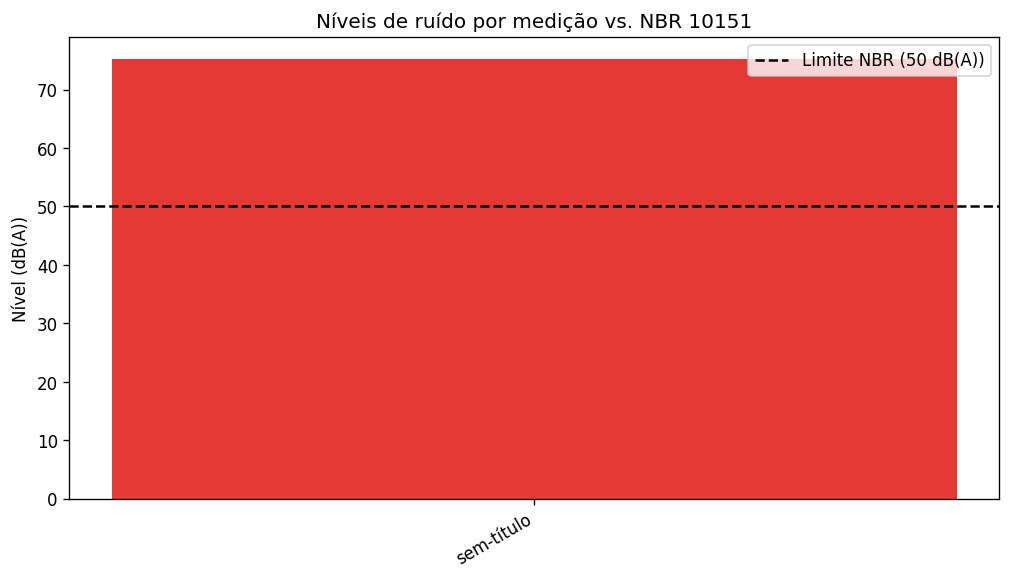
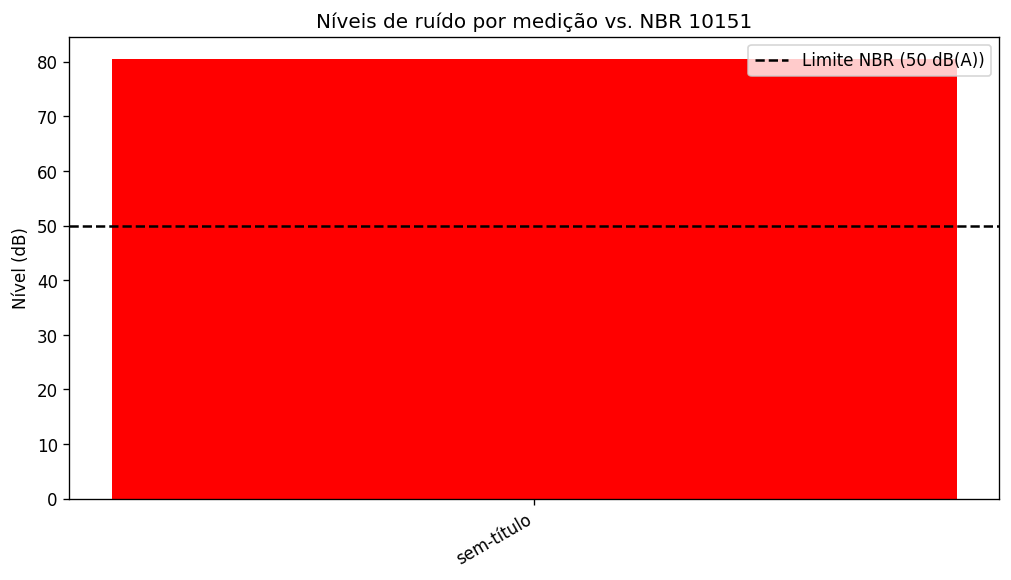
coletado audios

diff --git a/codigo/processamento.py b/codigo/processamento.py
@@ -1,155 +1,117 @@
-"""Funções de processamento do monitoramento acústico.
-
-Reúne, em um só lugar, todas as etapas usadas pelo main.py:
-carregamento do WAV, análise no tempo e na frequência (FFT), filtros
-FIR/IIR, nível em dB(A) comparado à NBR 10151 e os gráficos.
-"""
+# Funções de processamento do monitoramento acústico.
 
 from pathlib import Path
 
 import matplotlib
-matplotlib.use("Agg")  # backend sem janela: só salva os PNGs
+matplotlib.use("Agg")  # só salva os PNGs, não abre janela
 import matplotlib.pyplot as plt
 import numpy as np
 from scipy.io import wavfile
-from scipy.signal import (bilinear, butter, filtfilt, find_peaks, firwin,
-                          freqz, lfilter, spectrogram)
+from scipy.signal import butter, filtfilt, find_peaks, firwin, freqz, spectrogram
 
-# --- Pastas ---
+# Pastas
 PASTA_RAIZ = Path(__file__).resolve().parent.parent
 PASTA_AUDIOS = PASTA_RAIZ / "audios"
 PASTA_RESULTADOS = PASTA_RAIZ / "resultados"
 
-# --- Análise espectral ---
-FS_ESPERADA = 44100      # só para gerar o áudio de teste
-N_PICOS = 5              # quantos picos destacar no espectro
+# Análise espectral
+N_PICOS = 5                # quantos picos destacar no espectro
 ALTURA_MINIMA_PICO = 0.05  # fração do maior pico para considerar um pico
-TAMANHO_JANELA = 4096    # janela do espectrograma (amostras)
+TAMANHO_JANELA = 4096      # janela do espectrograma (amostras)
 
-# --- Filtros ---
-FREQ_CORTE = 2000        # corte do passa-baixas (Hz)
-ORDEM_IIR = 4            # ordem do Butterworth
-NUM_TAPS_FIR = 201       # nº de coeficientes do FIR
+# Filtros
+FREQ_CORTE = 2000          # corte do passa-baixas (Hz)
+ORDEM_IIR = 4              # ordem do Butterworth
+NUM_TAPS_FIR = 201         # nº de coeficientes do FIR
 
-# --- Nível de ruído (NBR 10151, entorno universitário) ---
-LIMITE_DIURNO = 50       # dB(A)
-LIMITE_NOTURNO = 45      # dB(A)
+# Nível de ruído (NBR 10151, entorno universitário)
+LIMITE_DIURNO = 50         # dB(A)
+LIMITE_NOTURNO = 45        # dB(A)
 # Sem microfone calibrado o WAV dá só nível relativo (dBFS). Esta constante
-# converte dBFS -> dB(A) SPL; medir uma vez contra um decibelímetro.
+# converte dBFS -> dB SPL; medir uma vez contra um decibelímetro.
 CALIBRACAO_DB = 100.0
 
 
-# ======================= CARREGAMENTO =======================
-
+# Lista os caminhos dos .wav da pasta audios/.
 def listar_audios():
-    """Devolve, em ordem, os caminhos dos .wav da pasta audios/."""
     return sorted(PASTA_AUDIOS.glob("*.wav"))
 
 
+# Lê um WAV e devolve (sinal mono, fs) normalizado em [-1, 1].
 def carregar(caminho):
-    """Lê um WAV e devolve (sinal_mono, fs), normalizado em [-1, 1]."""
     fs, dados = wavfile.read(caminho)
     sinal = dados.astype(np.float32)
-    # WAV inteiro: traz para [-1, 1] dividindo pelo maior valor do tipo.
     if np.issubdtype(dados.dtype, np.integer):
         sinal = sinal / np.iinfo(dados.dtype).max
-    # Estéreo vira mono pela média dos canais.
     if sinal.ndim > 1:
-        sinal = sinal.mean(axis=1)
+        sinal = sinal.mean(axis=1)  # estéreo -> mono
     return sinal, fs
 
 
-# ======================= ANÁLISE (TEMPO E FREQUÊNCIA) =======================
-
+# Espectro de amplitude (FFT): devolve (frequencias, amplitudes).
 def espectro(sinal, fs):
-    """Calcula o espectro de amplitude (FFT) e devolve (frequencias, amplitudes)."""
     n = len(sinal)
     amplitudes = np.abs(np.fft.rfft(sinal)) / n
     frequencias = np.fft.rfftfreq(n, d=1 / fs)
     return frequencias, amplitudes
 
 
+# Devolve os N_PICOS picos de maior amplitude como lista de (freq, amp).
 def picos_predominantes(frequencias, amplitudes):
-    """Devolve os N_PICOS picos de maior amplitude como lista de (freq, amp)."""
     altura = ALTURA_MINIMA_PICO * np.max(amplitudes)
     indices, _ = find_peaks(amplitudes, height=altura)
-    # Ordena por amplitude (maior primeiro) e fica com os N_PICOS maiores.
     indices = sorted(indices, key=lambda i: amplitudes[i], reverse=True)
     indices = indices[:N_PICOS]
     return [(frequencias[i], amplitudes[i]) for i in indices]
 
 
+# Espectrograma (energia por tempo e frequência).
 def espectrograma(sinal, fs):
-    """Calcula o espectrograma (energia por tempo e frequência)."""
     return spectrogram(sinal, fs=fs, nperseg=TAMANHO_JANELA)
 
 
-# ======================= FILTROS FIR / IIR =======================
-
+# Projeta um IIR passa-baixas (Butterworth). Devolve (b, a).
 def projetar_iir(fs):
-    """Projeta um IIR passa-baixas (Butterworth). Devolve (b, a)."""
     nyquist = fs / 2
     return butter(ORDEM_IIR, FREQ_CORTE / nyquist, btype="low")
 
 
+# Projeta um FIR passa-baixas (janela). Devolve (b, a) com a = 1.
 def projetar_fir(fs):
-    """Projeta um FIR passa-baixas (janela). Devolve (b, a) com a = 1."""
     nyquist = fs / 2
     b = firwin(NUM_TAPS_FIR, FREQ_CORTE / nyquist)
     return b, 1.0
 
 
+# Aplica o filtro ao sinal com fase zero.
 def aplicar_filtro(sinal, b, a):
-    """Aplica o filtro ao sinal com fase zero (filtfilt)."""
     return filtfilt(b, a, sinal)
 
 
+# Resposta em frequência do filtro: devolve (frequencias, ganho_db).
 def resposta_frequencia(b, a, fs):
-    """Devolve (frequencias, ganho_db) da resposta em frequência do filtro."""
-    epsilon = 1e-12
     w, h = freqz(b, a)
     frequencias = w * fs / (2 * np.pi)
-    ganho_db = 20 * np.log10(np.abs(h) + epsilon)
+    ganho_db = 20 * np.log10(np.abs(h) + 1e-12)
     return frequencias, ganho_db
 
 
-# ======================= NÍVEL EM dB(A) E NORMA =======================
-
-def ponderacao_a(sinal, fs):
-    """Aplica a ponderação A (curva da IEC 61672) ao sinal."""
-    # Frequências que definem a curva A (Hz) e correção para 0 dB em 1 kHz.
-    f1, f2, f3, f4 = 20.598997, 107.65265, 737.86223, 12194.217
-    ganho_1khz = 1.9997
-    num = [(2 * np.pi * f4) ** 2 * (10 ** (ganho_1khz / 20)), 0, 0, 0, 0]
-    den = np.polymul(
-        np.polymul([1, 4 * np.pi * f4, (2 * np.pi * f4) ** 2],
-                   [1, 4 * np.pi * f1, (2 * np.pi * f1) ** 2]),
-        np.polymul([1, 2 * np.pi * f3], [1, 2 * np.pi * f2]),
-    )
-    b, a = bilinear(num, den, fs)  # filtro analógico -> digital
-    return lfilter(b, a, sinal)
-
-
-def nivel_dba(sinal, fs):
-    """Nível em dB(A) SPL aproximado: pondera A -> RMS -> dBFS + calibração."""
-    epsilon = 1e-12
-    ponderado = ponderacao_a(sinal, fs)
-    rms = np.sqrt(np.mean(ponderado ** 2))
-    dbfs = 20 * np.log10(rms + epsilon)
+# Nível aproximado em dB: RMS -> dBFS + calibração (sem ponderação A).
+def nivel_db(sinal):
+    rms = np.sqrt(np.mean(sinal ** 2))
+    dbfs = 20 * np.log10(rms + 1e-12)
     return dbfs + CALIBRACAO_DB
 
 
+# Compara o nível com o limite da NBR 10151. Devolve (limite, situacao).
 def comparar_norma(nivel, periodo="diurno"):
-    """Compara o nível com o limite da NBR 10151. Devolve (limite, situacao)."""
     limite = LIMITE_DIURNO if periodo == "diurno" else LIMITE_NOTURNO
     situacao = "acima" if nivel > limite else "dentro"
     return limite, situacao
 
 
-# ======================= GRÁFICOS (salvam PNG em resultados/) =======================
-
+# Plota o sinal no domínio do tempo.
 def plot_forma_onda(sinal, fs, titulo, nome_arquivo):
-    """Plota o sinal no domínio do tempo."""
     tempo = np.arange(len(sinal)) / fs
     figura, eixo = plt.subplots(figsize=(10, 3))
     eixo.plot(tempo, sinal, linewidth=0.5)
@@ -157,11 +119,11 @@ def plot_forma_onda(sinal, fs, titulo, nome_arquivo):
     eixo.set_xlabel("Tempo (s)")
     eixo.set_ylabel("Amplitude")
     eixo.grid(True, alpha=0.3)
-    return _salvar(figura, nome_arquivo)
+    salvar(figura, nome_arquivo)
 
 
+# Plota o espectro de amplitude e marca os picos predominantes.
 def plot_espectro(frequencias, amplitudes, picos, titulo, nome_arquivo):
-    """Plota o espectro de amplitude e marca os picos predominantes."""
     figura, eixo = plt.subplots(figsize=(10, 4))
     eixo.plot(frequencias, amplitudes, linewidth=0.7)
     for frequencia, amplitude in picos:
@@ -172,27 +134,24 @@ def plot_espectro(frequencias, amplitudes, picos, titulo, nome_arquivo):
     eixo.set_xlabel("Frequência (Hz)")
     eixo.set_ylabel("Amplitude")
     eixo.grid(True, alpha=0.3)
-    return _salvar(figura, nome_arquivo)
+    salvar(figura, nome_arquivo)
 
 
+# Plota o espectrograma em escala de dB.
 def plot_espectrograma(frequencias, tempos, energia, titulo, nome_arquivo):
-    """Plota o espectrograma em escala de dB."""
-    epsilon = 1e-12
     figura, eixo = plt.subplots(figsize=(10, 4))
-    energia_db = 10 * np.log10(energia + epsilon)
+    energia_db = 10 * np.log10(energia + 1e-12)
     malha = eixo.pcolormesh(tempos, frequencias, energia_db, shading="gouraud")
     eixo.set_title(titulo)
     eixo.set_xlabel("Tempo (s)")
     eixo.set_ylabel("Frequência (Hz)")
     figura.colorbar(malha, ax=eixo, label="Energia (dB)")
-    return _salvar(figura, nome_arquivo)
+    salvar(figura, nome_arquivo)
 
 
+# Plota a resposta em frequência de um ou mais filtros.
+# curvas: lista de (rotulo, frequencias, ganho_db).
 def plot_resposta_filtros(curvas, titulo, nome_arquivo):
-    """Plota a resposta em frequência de um ou mais filtros.
-
-    curvas: lista de (rotulo, frequencias, ganho_db).
-    """
     figura, eixo = plt.subplots(figsize=(10, 4))
     for rotulo, frequencias, ganho_db in curvas:
         eixo.plot(frequencias, ganho_db, label=rotulo)
@@ -201,27 +160,25 @@ def plot_resposta_filtros(curvas, titulo, nome_arquivo):
     eixo.set_ylabel("Ganho (dB)")
     eixo.grid(True, alpha=0.3)
     eixo.legend()
-    return _salvar(figura, nome_arquivo)
+    salvar(figura, nome_arquivo)
 
 
+# Barras com o nível de cada medição vs. limite diurno da NBR 10151.
 def plot_comparacao_niveis(nomes, niveis, nome_arquivo):
-    """Barras com o nível de cada medição vs. limite diurno da NBR 10151."""
     limite = LIMITE_DIURNO
     figura, eixo = plt.subplots(figsize=(10, 5))
-    cores = ["#4caf50" if nivel <= limite else "#e53935" for nivel in niveis]
+    cores = ["green" if nivel <= limite else "red" for nivel in niveis]
     eixo.bar(nomes, niveis, color=cores)
     eixo.axhline(limite, color="black", linestyle="--",
                  label=f"Limite NBR ({limite} dB(A))")
     eixo.set_title("Níveis de ruído por medição vs. NBR 10151")
-    eixo.set_ylabel("Nível (dB(A))")
+    eixo.set_ylabel("Nível (dB)")
     eixo.legend()
     plt.setp(eixo.get_xticklabels(), rotation=30, ha="right")
-    return _salvar(figura, nome_arquivo)
+    salvar(figura, nome_arquivo)
 
 
-def _salvar(figura, nome_arquivo):
-    """Salva a figura em resultados/<nome_arquivo> e fecha a figura."""
-    caminho = PASTA_RESULTADOS / nome_arquivo
-    figura.savefig(caminho, dpi=120, bbox_inches="tight")
+# Salva a figura em resultados/ e fecha.
+def salvar(figura, nome_arquivo):
+    figura.savefig(PASTA_RESULTADOS / nome_arquivo, dpi=120, bbox_inches="tight")
     plt.close(figura)
-    return caminho

diff --git a/codigo/main.py b/codigo/main.py
@@ -1,25 +1,18 @@
-"""Pipeline de monitoramento acústico — processa os WAVs de audios/.
-
-Para cada arquivo .wav, executa: análise no tempo, espectro (FFT) com
-picos, espectrograma, filtros FIR/IIR e nível em dB(A) comparado à
-NBR 10151 (limite diurno). Salva as figuras em resultados/ e imprime
-uma tabela comparativa.
-
-Como rodar (a partir da pasta codigo/):  python main.py
-"""
+# Processa os WAVs de audios/: tempo, FFT, espectrograma, filtros e nível
+# comparado à NBR 10151. Rodar da pasta codigo/:  python main.py
 
 import numpy as np
 
 import processamento as proc
 
 
+# Imprime a tabela comparativa dos níveis entre as medições.
 def imprimir_tabela(nomes, niveis, situacoes):
-    """Imprime a tabela comparativa dos níveis entre as medições."""
     largura = 48
     print("\n" + "=" * largura)
     print("NÍVEIS DE RUÍDO vs NBR 10151 (limite diurno 50 dB(A))")
     print("=" * largura)
-    print(f"{'Arquivo':<24}{'dB(A)':<10}{'Situação'}")
+    print(f"{'Arquivo':<24}{'dB':<10}{'Situação'}")
     print("-" * largura)
     for nome, nivel, situacao in zip(nomes, niveis, situacoes):
         print(f"{nome:<24}{nivel:<10.1f}{situacao}")
@@ -27,7 +20,6 @@ def imprimir_tabela(nomes, niveis, situacoes):
 
 
 def main():
-    """Executa todas as etapas em cada áudio da pasta audios/."""
     proc.PASTA_RESULTADOS.mkdir(exist_ok=True)
     audios = proc.listar_audios()
     if not audios:
@@ -42,24 +34,24 @@ def main():
         base = caminho.stem
         sinal, fs = proc.carregar(caminho)
 
-        # 1) Domínio do tempo.
+        # Tempo
         rms = np.sqrt(np.mean(sinal ** 2))
         pico = np.max(np.abs(sinal))
         proc.plot_forma_onda(sinal, fs,
                              f"Forma de onda — {base}", f"{base}_onda.png")
 
-        # 2) Domínio da frequência (FFT + picos).
+        # Frequência (FFT + picos)
         frequencias, amplitudes = proc.espectro(sinal, fs)
         picos = proc.picos_predominantes(frequencias, amplitudes)
         proc.plot_espectro(frequencias, amplitudes, picos,
                           f"Espectro — {base}", f"{base}_espectro.png")
 
-        # 3) Espectrograma.
+        # Espectrograma
         f_esp, t_esp, energia = proc.espectrograma(sinal, fs)
         proc.plot_espectrograma(f_esp, t_esp, energia,
                               f"Espectrograma — {base}", f"{base}_espectrograma.png")
 
-        # 4) Filtros FIR e IIR (resposta dos dois + sinal filtrado pelo IIR).
+        # Filtros FIR e IIR (resposta dos dois + sinal filtrado pelo IIR)
         b_iir, a_iir = proc.projetar_iir(fs)
         b_fir, a_fir = proc.projetar_fir(fs)
         curvas = [("FIR", *proc.resposta_frequencia(b_fir, a_fir, fs)),
@@ -71,8 +63,8 @@ def main():
                             f"Forma de onda filtrada (IIR) — {base}",
                             f"{base}_onda_filtrada.png")
 
-        # 5) Nível em dB(A) e comparação com a norma.
-        nivel = proc.nivel_dba(sinal, fs)
+        # Nível e norma
+        nivel = proc.nivel_db(sinal)
         limite, situacao = proc.comparar_norma(nivel)
 
         nomes.append(base)
@@ -83,9 +75,9 @@ def main():
         print(f"-> {base}")
         print(f"   RMS={rms:.3f}  pico={pico:.3f}")
         print(f"   picos predominantes: {picos_txt}")
-        print(f"   nível: {nivel:.1f} dB(A) -> {situacao} do limite {limite}\n")
+        print(f"   nível: {nivel:.1f} dB -> {situacao} do limite {limite}\n")
 
-    # Painel comparativo final (material de divulgação).
+    # Painel comparativo final (material de divulgação)
     proc.plot_comparacao_niveis(nomes, niveis, "comparacao_niveis.png")
     imprimir_tabela(nomes, niveis, situacoes)
     print(f"\nFiguras salvas em: {proc.PASTA_RESULTADOS}")

diff --git a/CLAUDE.md b/CLAUDE.md
@@ -43,8 +43,8 @@ README.md
 - **Carregamento** — `listar_audios()`; `carregar(caminho)` (lê com `scipy.io.wavfile`, estéreo→mono, normaliza para [-1, 1], retorna `(sinal, fs)`).
 - **Análise** — `espectro()` via `numpy.fft.rfft`/`rfftfreq`; `picos_predominantes()` via `scipy.signal.find_peaks`; `espectrograma()` via `scipy.signal.spectrogram`. (RMS e pico são calculados direto no `main.py`.)
 - **Filtros** — `projetar_iir()` (`butter`), `projetar_fir()` (`firwin`, devolve `(b, 1.0)`), `aplicar_filtro()` (`filtfilt`, fase zero) e `resposta_frequencia()` (`freqz`).
-- **Nível / norma** — `ponderacao_a()` (coeficientes IEC 61672 + `bilinear`); `nivel_dba()` (pondera A → RMS → dBFS + `CALIBRACAO_DB`); `comparar_norma(nivel, periodo="diurno")` (classifica dentro/acima).
-- **Gráficos** — `plot_forma_onda`, `plot_espectro` (marcando picos), `plot_espectrograma`, `plot_resposta_filtros` (FIR e IIR juntos), `plot_comparacao_niveis` (barras vs. linha de limite NBR). Salvam PNG em `resultados/` via `_salvar()`.
+- **Nível / norma** — `nivel_db(sinal)` (nível aproximado: RMS → dBFS + `CALIBRACAO_DB`, **sem** ponderação A) e `comparar_norma(nivel, periodo="diurno")` (classifica dentro/acima do limite). A pedido do aluno, a ponderação A (IEC 61672) foi removida para o código ficar mais fácil de explicar — o valor é rotulado "dB" (aproximado), não "dB(A)".
+- **Gráficos** — `plot_forma_onda`, `plot_espectro` (marcando picos), `plot_espectrograma`, `plot_resposta_filtros` (FIR e IIR juntos), `plot_comparacao_niveis` (barras vs. linha de limite NBR). Salvam PNG em `resultados/` via `salvar()`.
 
 `main.py` cria `resultados/`, percorre cada WAV (tempo → FFT + picos → espectrograma → filtros FIR/IIR → nível dB(A) → comparação NBR), gera as figuras e imprime a tabela comparativa.
 